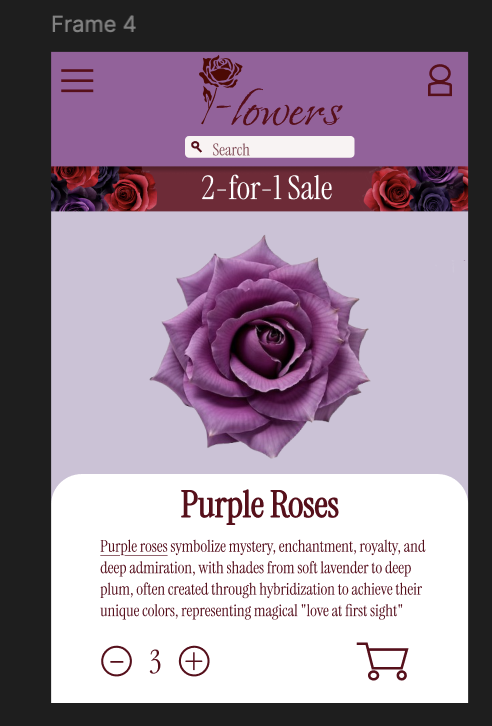
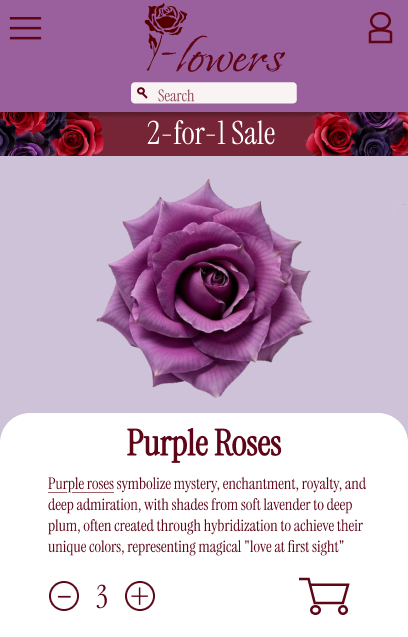
Replace Figma image with updated assets
Update figma.html to use two new Figma images (img/wpfigma2.png then img/wpfigma1.png). Remove the old img/wpfigma.png and add img/wpfigma1.png and img/wpfigma2.png. Also updated img/flower2.png and refreshed .DS_Store entries. This refreshes the Figma visuals displayed on the page.

diff --git a/figma.html b/figma.html
@@ -40,8 +40,8 @@
     <div class="sevenate9"><header><h2> Tiktok ad prototype</h2></header></div>
 
     <img src="img/wptiktok.gif" alt="Warby Parker Gif" height="350">
-    <img src="img/wpfigma.png" alt="Figma" height="350">
-
+    <img src="img/wpfigma2.png" alt="Figma" height="350">
+    <img src="img/wpfigma1.png" alt="Figma" height="350">
         <div class="text-container3">  During my data analysis internship at Warby Parker, I led a group project that used Excel to analyze a period of rising sales and Figma to explain what was driving it. I designed a mock TikTok ad as an interactive prototype that follows a customer's journey, from the first moments of scrolling, to exploring the product, to checking out. Pairing that visual walkthrough with the spreadsheet analysis turned raw numbers into a story anyone could follow. <p></p> I presented the project to Warby Parker's Chief of Technology and his team, walking them through both the data and the ad experience. The project combined my design background with my growing data skills, and it showed me how a well-designed ad can help explain the "why" behind a trend.</div>
 
     <div class="sevenate9"><header><h2> Designing an online flower shop</h2></header></div>
